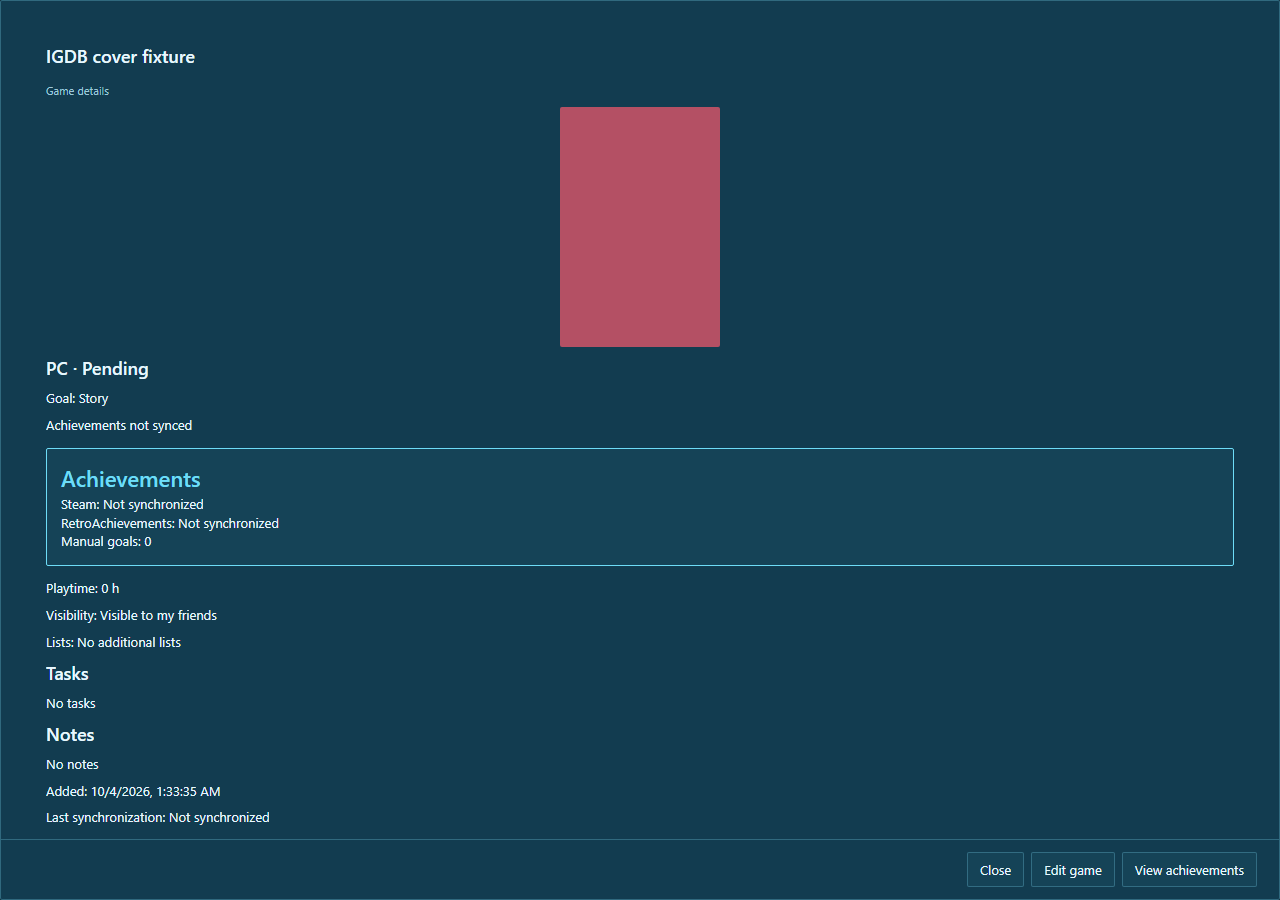
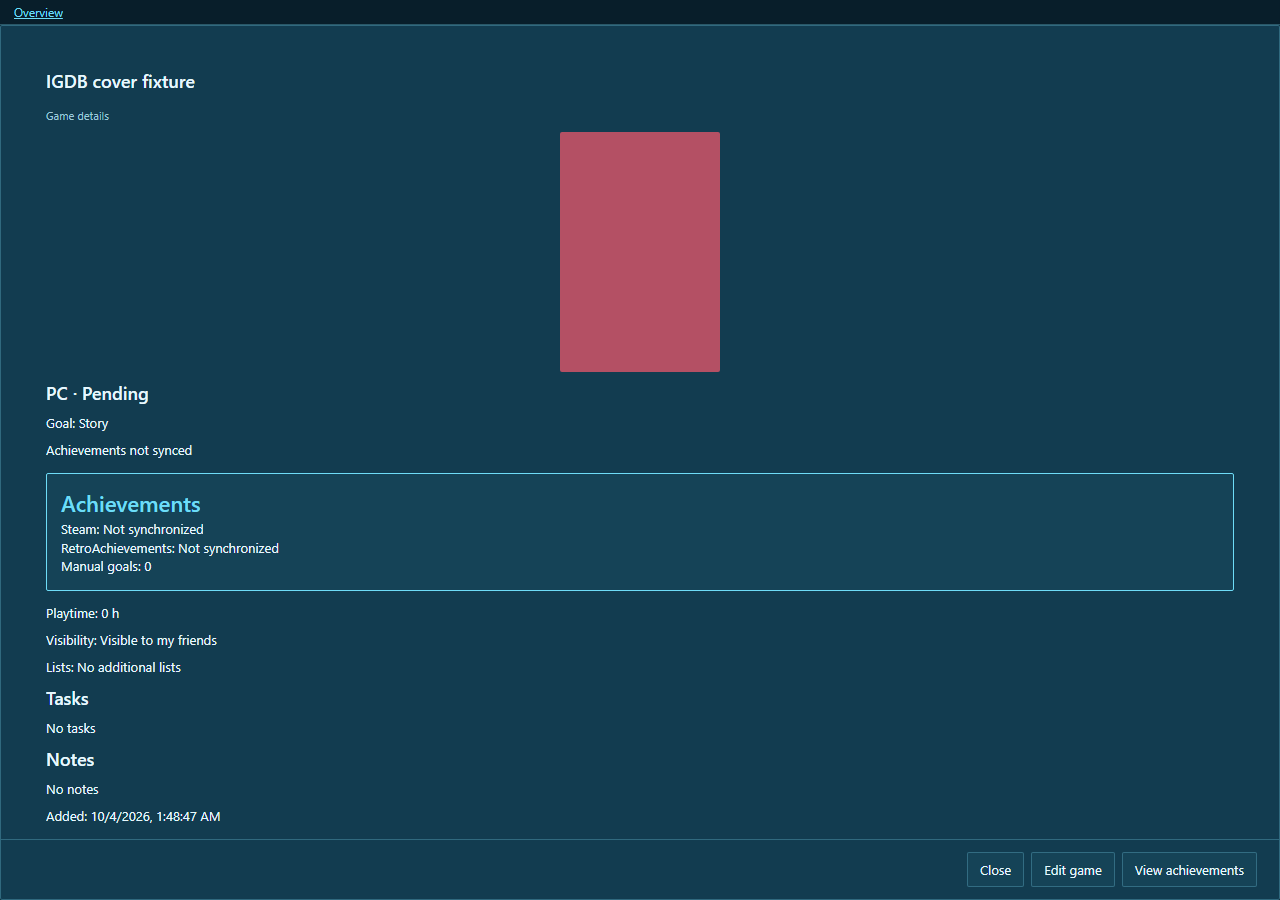
Add a bilingual presentation before the browser app

diff --git a/web/index.html b/web/index.html
@@ -1,5 +1,55 @@
 <!doctype html>
 <html lang="es"><head><meta charset="utf-8"><meta name="viewport" content="width=device-width,initial-scale=1"><meta name="referrer" content="no-referrer"><meta name="theme-color" content="#111827"><meta name="description" content="Checkpoint: tu biblioteca de juegos, objetivos, Steam y amigos en el navegador.">
 <meta http-equiv="Content-Security-Policy" content="default-src 'none'; script-src 'self'; style-src 'self' 'unsafe-inline'; img-src 'self' data: blob: https://cdn.cloudflare.steamstatic.com; connect-src 'self' https://fumdnvvvoiwoiziwtmsu.supabase.co; worker-src 'self'; manifest-src 'self'; frame-src 'none'; object-src 'none'; base-uri 'none'; form-action 'none'">
-<title>Checkpoint</title><link rel="icon" href="icon.svg"><link rel="manifest" href="manifest.webmanifest"><link rel="stylesheet" href="app.css"><link rel="stylesheet" href="web.css"></head>
-<body><div id="app"><div class="boot" role="status">Checkpoint</div></div><script type="module" src="start.mjs"></script></body></html>
+<title>Checkpoint</title><link rel="icon" href="icon.svg"><link rel="manifest" href="manifest.webmanifest"><link rel="stylesheet" href="presentation.css"></head>
+<body>
+<header class="site-header">
+  <a class="brand" href="./">Checkpoint</a>
+  <nav aria-label="Checkpoint">
+    <a href="https://github.com/Nicolasmf05/Checkpoint" target="_blank" rel="noopener noreferrer">GitHub</a>
+    <button type="button" data-language="es" lang="es" aria-pressed="true">Español</button>
+    <button type="button" data-language="en" lang="en" aria-pressed="false">English</button>
+  </nav>
+</header>
+<main>
+  <section class="introduction" aria-labelledby="intro-title">
+    <div>
+      <h1 id="intro-title">Checkpoint</h1>
+      <p class="description" data-copy="intro">Una lista de juegos con carátulas, objetivos y progreso. Disponible en el navegador y como aplicación para Windows.</p>
+      <div class="actions">
+        <a class="button primary" data-open-app href="app.html#es" data-copy="open">Abrir Checkpoint</a>
+        <a class="button" href="https://github.com/Nicolasmf05/Checkpoint/releases/latest" data-copy="download">Descargar para Windows</a>
+      </div>
+      <p class="note" data-copy="account">Puedes usar tu biblioteca sin cuenta. Inicia sesión dentro de la app para conectar con tus amigos de Checkpoint.</p>
+    </div>
+    <section class="example" aria-labelledby="example-title">
+      <h2 id="example-title" data-copy="example">Ejemplo de lista</h2>
+      <div class="table-scroll"><table>
+        <thead><tr><th scope="col" data-copy="game">Juego</th><th scope="col" data-copy="state">Estado</th><th scope="col" data-copy="achievements">Logros</th></tr></thead>
+        <tbody>
+          <tr><th scope="row">Hades</th><td data-copy="playing">Jugando</td><td>12 / 49</td></tr>
+          <tr><th scope="row">Portal 2</th><td data-copy="pending">Pendiente</td><td>0 / 51</td></tr>
+          <tr><th scope="row">Hollow Knight</th><td data-copy="finished">Historia terminada</td><td>38 / 63</td></tr>
+        </tbody>
+      </table></div>
+      <p class="note" data-copy="sample">Datos de ejemplo. Tu biblioteca se abre al entrar en Checkpoint.</p>
+    </section>
+  </section>
+  <section class="features" aria-labelledby="features-title">
+    <h2 id="features-title" data-copy="features">Qué puedes hacer</h2>
+    <dl>
+      <div><dt data-copy="lists">Listas y progreso</dt><dd data-copy="listsText">Organiza varias listas, cambia el estado de tus juegos y guarda notas, tareas y objetivos personales.</dd></div>
+      <div><dt>Steam</dt><dd data-copy="steamText">Conecta tu cuenta para importar juegos y consultar logros. La sincronización se realiza al abrir la app y periódicamente.</dd></div>
+      <div><dt data-copy="friends">Amigos de Checkpoint</dt><dd data-copy="friendsText">Comparte tus avances con amigos mediante tu código de Checkpoint. Puedes mantener juegos privados.</dd></div>
+      <div><dt data-copy="windows">Aplicación de Windows</dt><dd data-copy="windowsText">Usa una ventana translúcida, el modo miniatura y la detección de juegos para consultar los logros pendientes.</dd></div>
+    </dl>
+  </section>
+  <section class="information" aria-labelledby="data-title">
+    <h2 id="data-title" data-copy="data">Tus datos en el navegador</h2>
+    <p data-copy="dataText">La biblioteca se guarda en este navegador. Puedes importar y exportar copias JSON. La biblioteca privada no se sincroniza automáticamente entre la web y Windows.</p>
+    <p><a href="https://github.com/Nicolasmf05/Checkpoint/blob/main/docs/WEB.md" data-guide data-copy="guide">Leer la guía web</a></p>
+  </section>
+</main>
+<footer><span data-copy="credit">Creado por</span> <a href="https://github.com/Nicolasmf05">Nicolasmf05</a> · <a href="https://github.com/Nicolasmf05/Checkpoint/blob/main/LICENSE" data-copy="license">Licencia</a></footer>
+<script type="module" src="presentation.mjs"></script>
+</body></html>

diff --git a/web/presentation.css b/web/presentation.css
@@ -1,0 +1,37 @@
+* { box-sizing:border-box; }
+:root { font:14px/1.6 "Segoe UI",Arial,sans-serif; color:#222; background:#f0f0f0; color-scheme:light; }
+body { margin:0; }
+a { color:#245b91; text-underline-offset:3px; }
+button { font:inherit; cursor:pointer; }
+:focus-visible { outline:2px solid #245b91; outline-offset:3px; }
+.site-header { max-width:1040px; margin:auto; padding:18px 24px; border-bottom:1px solid #aaa; display:flex; align-items:center; justify-content:space-between; gap:16px; flex-wrap:wrap; }
+.brand { color:#222; font-weight:600; text-decoration:none; font-size:18px; }
+.site-header nav { display:flex; align-items:center; gap:12px; flex-wrap:wrap; }
+.site-header button { border:1px solid #999; background:transparent; color:#333; padding:3px 8px; border-radius:2px; }
+.site-header button[aria-pressed="true"] { background:#fff; border-color:#245b91; color:#245b91; }
+main { max-width:1040px; margin:auto; padding:36px 24px 24px; }
+h1 { font-size:28px; line-height:1.25; margin:0 0 18px; font-weight:600; }
+h2 { font-size:18px; font-weight:600; margin:0 0 14px; }
+p { margin:0 0 14px; }
+.introduction { display:grid; grid-template-columns:1fr 1fr; gap:36px; align-items:start; }
+.description { font-size:16px; }
+.actions { display:flex; flex-wrap:wrap; gap:10px; margin:22px 0 16px; }
+.button { display:inline-block; border:1px solid #999; border-radius:2px; padding:8px 13px; background:#fff; color:#222; text-decoration:none; font-weight:600; }
+.button:hover { background:#e5e5e5; }
+.button.primary { background:#245b91; border-color:#245b91; color:#fff; }
+.button.primary:hover { background:#1b4774; }
+.note { font-size:12px; color:#555; }
+.example { padding:18px; border:1px solid #aaa; background:#fff; }
+.table-scroll { overflow-x:auto; }
+table { width:100%; border-collapse:collapse; font-size:12px; text-align:left; }
+th,td { padding:10px 6px; border-bottom:1px solid #ccc; }
+thead th { background:#f0f0f0; font-weight:600; }
+tbody th { font-weight:400; }
+.example .note { margin:12px 0 0; }
+.features,.information { margin-top:36px; padding-top:24px; border-top:1px solid #aaa; }
+dl { display:grid; grid-template-columns:1fr 1fr; gap:22px 36px; margin:0; }
+dt { font-weight:600; margin-bottom:4px; }
+dd { margin:0; color:#444; }
+footer { max-width:1040px; margin:auto; border-top:1px solid #aaa; padding:18px 24px; color:#555; font-size:12px; }
+@media(max-width:700px) { main { padding-top:24px; }.introduction,dl { grid-template-columns:1fr; gap:24px; }.site-header,main,footer { padding-left:16px; padding-right:16px; } }
+@media(prefers-reduced-motion:no-preference) { html { scroll-behavior:smooth; } }

diff --git a/web/app.html b/web/app.html
@@ -1,0 +1,5 @@
+<!doctype html>
+<html lang="es"><head><meta charset="utf-8"><meta name="viewport" content="width=device-width,initial-scale=1"><meta name="referrer" content="no-referrer"><meta name="theme-color" content="#111827"><meta name="description" content="Checkpoint: tu biblioteca de juegos, objetivos, Steam y amigos en el navegador.">
+<meta http-equiv="Content-Security-Policy" content="default-src 'none'; script-src 'self'; style-src 'self' 'unsafe-inline'; img-src 'self' data: blob: https://cdn.cloudflare.steamstatic.com; connect-src 'self' https://fumdnvvvoiwoiziwtmsu.supabase.co; worker-src 'self'; manifest-src 'self'; frame-src 'none'; object-src 'none'; base-uri 'none'; form-action 'none'">
+<title>Checkpoint</title><link rel="icon" href="icon.svg"><link rel="manifest" href="manifest.webmanifest"><link rel="stylesheet" href="app.css"><link rel="stylesheet" href="web.css"></head>
+<body class="app-page"><nav class="site-nav" aria-label="Checkpoint"><a href="./" data-presentation>Presentación</a></nav><div id="app"><div class="boot" role="status">Checkpoint</div></div><script type="module" src="start.mjs"></script></body></html>

diff --git a/web/sw.js b/web/sw.js
@@ -1,5 +1,5 @@
 const cacheName='checkpoint-web-1';
-const assets=['./','index.html','start.mjs','bridge.mjs','model.mjs','store.mjs','api.mjs','ui.js','ui-model.mjs','shortcuts.mjs','app.css','web.css','config.json','en.json','icon.svg','manifest.webmanifest'];
+const assets=['./','index.html','app.html','presentation.mjs','presentation.css','start.mjs','bridge.mjs','model.mjs','store.mjs','api.mjs','ui.js','ui-model.mjs','shortcuts.mjs','app.css','web.css','config.json','en.json','icon.svg','manifest.webmanifest'];
 self.addEventListener('install',event=>event.waitUntil(caches.open(cacheName).then(cache=>cache.addAll(assets.map(url=>new Request(url,{cache:'reload'})))).then(()=>self.skipWaiting())));
 self.addEventListener('activate',event=>event.waitUntil(caches.keys().then(keys=>Promise.all(keys.filter(key=>key.startsWith('checkpoint-web-')&&key!==cacheName).map(key=>caches.delete(key)))).then(()=>self.clients.claim())));
 self.addEventListener('fetch',event=>{const url=new URL(event.request.url);if(event.request.method!=='GET'||url.origin!==self.location.origin||!url.pathname.startsWith(new URL('./',self.location.href).pathname))return;

diff --git a/web/web.css b/web/web.css
@@ -13,3 +13,8 @@ body { background:rgb(var(--surface)); } #app { display:flex;align-items:center;
 @media(max-width:360px) { .window.browser .navigation { flex-wrap:wrap; }.window.browser .navigation .add { margin-left:0; }.window.browser .searchbar { flex-wrap:wrap; }.window.browser .searchbar input { flex-basis:100%; }.window.browser .collectionbar { flex-wrap:wrap; }.window.browser .manage-lists { width:100%; } }
 
 @media(max-height:480px) { .window.browser { overflow-y:auto; }.window.browser .viewport { flex:none;min-height:160px; } }
+
+.app-page { display:flex; flex-direction:column; }
+.app-page #app { height:auto; flex:1; min-height:0; }
+.site-nav { flex:none; border-bottom:1px solid var(--line); padding:4px 14px; font-size:12px; }
+.site-nav a { color:var(--accent-ink,var(--accent)); }

diff --git a/docs/WEB.md b/docs/WEB.md
@@ -2,9 +2,10 @@
 
 [English](en/WEB.md) · **Español**
 
-[**Abrir la app web**](https://nicolasmf05.github.io/Checkpoint/). No requiere instalar Checkpoint ni .NET. Usa un navegador moderno con JavaScript y almacenamiento IndexedDB habilitados.
+[**Presentación de Checkpoint**](https://nicolasmf05.github.io/Checkpoint/) · [**Abrir la app directamente**](https://nicolasmf05.github.io/Checkpoint/app.html). La dirección principal muestra una portada; «Abrir Checkpoint» entra en la aplicación. El enlace «Presentación» permite volver sin cerrar sesión en esta pestaña ni borrar juegos. La app instalada como PWA abre directamente la biblioteca. No requiere instalar Checkpoint ni .NET. Usa un navegador moderno con JavaScript y almacenamiento IndexedDB habilitados.
+![Presentación de Checkpoint](screenshots/web-presentation-es.png)
 
-La web permite crear y editar juegos, marcar estado e historia, notas privadas, tareas, favoritos, carátulas locales, lista/compacta/cuadrícula, ocho temas, español o inglés y [atajos configurables](SHORTCUTS.md). La interfaz ocupa el espacio disponible del navegador y se adapta al redimensionarlo; no ofrece modos de ventana completa/pequeña/Miniatura. El selector de vista solo cambia la presentación de los juegos.
+La web permite crear y editar juegos, marcar estado e historia, notas privadas, tareas, favoritos, carátulas locales, lista/compacta/cuadrícula, 22 temas, español o inglés y [atajos configurables](SHORTCUTS.md). La interfaz ocupa el espacio disponible del navegador y se adapta al redimensionarlo; no ofrece modos de ventana completa/pequeña/Miniatura. El selector de vista solo cambia la presentación de los juegos.
 
 Steam se vincula en Ajustes y abre el acceso oficial de Steam. La biblioteca y los logros se consultan al abrir, al recuperar conexión y cada 15/30/60/120 minutos mientras la pestaña está visible. Steam exige que los datos pertinentes sean públicos. Los juegos familiares que Steam devuelve en sus licencias o actividad reciente se incorporan; no se garantiza encontrar todo el catálogo familiar. La historia, estado y notas no se completan ni sustituyen con Steam.
 

diff --git a/docs/en/WEB.md b/docs/en/WEB.md
@@ -2,9 +2,10 @@
 
 **English** · [Español](../WEB.md)
 
-[**Open the web app**](https://nicolasmf05.github.io/Checkpoint/). No Checkpoint or .NET installation is required. Use a modern browser with JavaScript and IndexedDB enabled.
+[**Checkpoint overview**](https://nicolasmf05.github.io/Checkpoint/) · [**Open the app directly**](https://nicolasmf05.github.io/Checkpoint/app.html). The main address shows a presentation page; Open Checkpoint enters the application. The Overview link returns to the presentation without signing out in the same tab or deleting games. An installed PWA opens the library directly. No Checkpoint or .NET installation is required. Use a modern browser with JavaScript and IndexedDB enabled.
+![Checkpoint overview](../screenshots/web-presentation-en.png)
 
-Create and edit games, state and manual story progress, private notes, tasks, favorites, local covers, list/compact/grid layouts, eight themes, Spanish or English and [configurable shortcuts](SHORTCUTS.md). The interface automatically fills the available browser viewport and adapts when resized; no full/small/Miniature window presets are offered. Layout selection only changes game presentation.
+Create and edit games, state and manual story progress, private notes, tasks, favorites, local covers, list/compact/grid layouts, 22 themes, Spanish or English and [configurable shortcuts](SHORTCUTS.md). The interface automatically fills the available browser viewport and adapts when resized; no full/small/Miniature window presets are offered. Layout selection only changes game presentation.
 
 Link Steam in Settings using the official Steam login page. Library and achievements refresh on launch, reconnection and every 15/30/60/120 minutes while the tab is visible. Relevant Steam data must be public. Family games returned through licenses or recent activity are included; the entire family catalog is not guaranteed. Steam never completes the story or overwrites manual state and notes.
 

diff --git a/README.md b/README.md
@@ -4,7 +4,7 @@
 
 A translucent Windows desktop widget for the games you want to finish, with cover art, goals and progress shared with Checkpoint friends.
 
-**[Use Checkpoint in your browser](https://nicolasmf05.github.io/Checkpoint/)** · [Web guide](docs/en/WEB.md) · [Configure shortcuts](docs/en/SHORTCUTS.md). The web library lives in this browser; use JSON to transfer your Windows games.
+**[Checkpoint overview](https://nicolasmf05.github.io/Checkpoint/)** · [Open the web app](https://nicolasmf05.github.io/Checkpoint/app.html) · [Web guide](docs/en/WEB.md) · [Configure shortcuts](docs/en/SHORTCUTS.md). The web library lives in this browser; use JSON to transfer your Windows games.
 
 > **IMPORTANT — SMARTSCREEN:** GitHub EXE/MSI downloads have no digital signature or publisher certificate. Their unsigned status and lack of reputation can trigger “Windows protected your PC”. **I have no certificate because it costs money; I will not buy one until Checkpoint income covers at least its cost. Until then, these downloads will remain without a certificate.** Signing does not guarantee that warnings immediately disappear. [Read the notice and requirements](docs/en/DOWNLOAD-NOTES.md).
 

diff --git a/README.es.md b/README.es.md
@@ -4,7 +4,7 @@
 
 Widget translúcido para organizar los juegos que quieres pasarte en Windows.
 
-**[Usar Checkpoint en el navegador](https://nicolasmf05.github.io/Checkpoint/)** · [Guía web](docs/WEB.md) · [Configurar atajos](docs/SHORTCUTS.md). La biblioteca web se guarda en este navegador; usa JSON para trasladar tus juegos de Windows.
+**[Presentación de Checkpoint](https://nicolasmf05.github.io/Checkpoint/)** · [Abrir la app web](https://nicolasmf05.github.io/Checkpoint/app.html) · [Guía web](docs/WEB.md) · [Configurar atajos](docs/SHORTCUTS.md). La biblioteca web se guarda en este navegador; usa JSON para trasladar tus juegos de Windows.
 
 > **AVISO IMPORTANTE — SMARTSCREEN:** los EXE/MSI de GitHub no tienen firma ni certificado de editor. La ausencia de firma y de reputación puede provocar «Windows protegió su PC». **No tengo certificado porque supone un coste; no lo compraré hasta que los ingresos de Checkpoint cubran al menos lo que cueste. Hasta entonces, estas descargas seguirán sin certificado.** Firmar tampoco garantiza que el aviso desaparezca inmediatamente. [Lee el aviso y los requisitos](docs/DOWNLOAD-NOTES.md).
 

diff --git a/CHANGELOG.es.md b/CHANGELOG.es.md
@@ -2,6 +2,10 @@
 
 # Historial de cambios
 
+## Web — 2026-10-04
+
+- La dirección principal abre una presentación bilingüe. Abrir Checkpoint entra en la app existente; app.html permite el acceso directo. Volver a la presentación conserva la sesión de la pestaña y los juegos locales. Las PWA instaladas abren directamente la app.
+
 ## 0.8.7 — 2026-10-04
 
 - Aspecto de escritorio más sencillo: controles rectos, bordes discretos, colores predeterminados neutros y títulos más pequeños en Windows y navegador. Se conservan los 22 temas.

diff --git a/CHANGELOG.md b/CHANGELOG.md
@@ -2,6 +2,10 @@
 
 **English** · [Español](CHANGELOG.es.md)
 
+## Web — 2026-10-04
+
+- The main web address opens a bilingual presentation. Open Checkpoint enters the existing app; app.html provides direct access. Returning to the overview retains same-tab sessions and local games. Installed PWAs open the app directly.
+
 ## 0.8.7 — 2026-10-04
 
 - A simpler desktop appearance: square controls, restrained borders, neutral default colors and smaller section headings throughout Windows and the browser. All 22 themes remain available.
